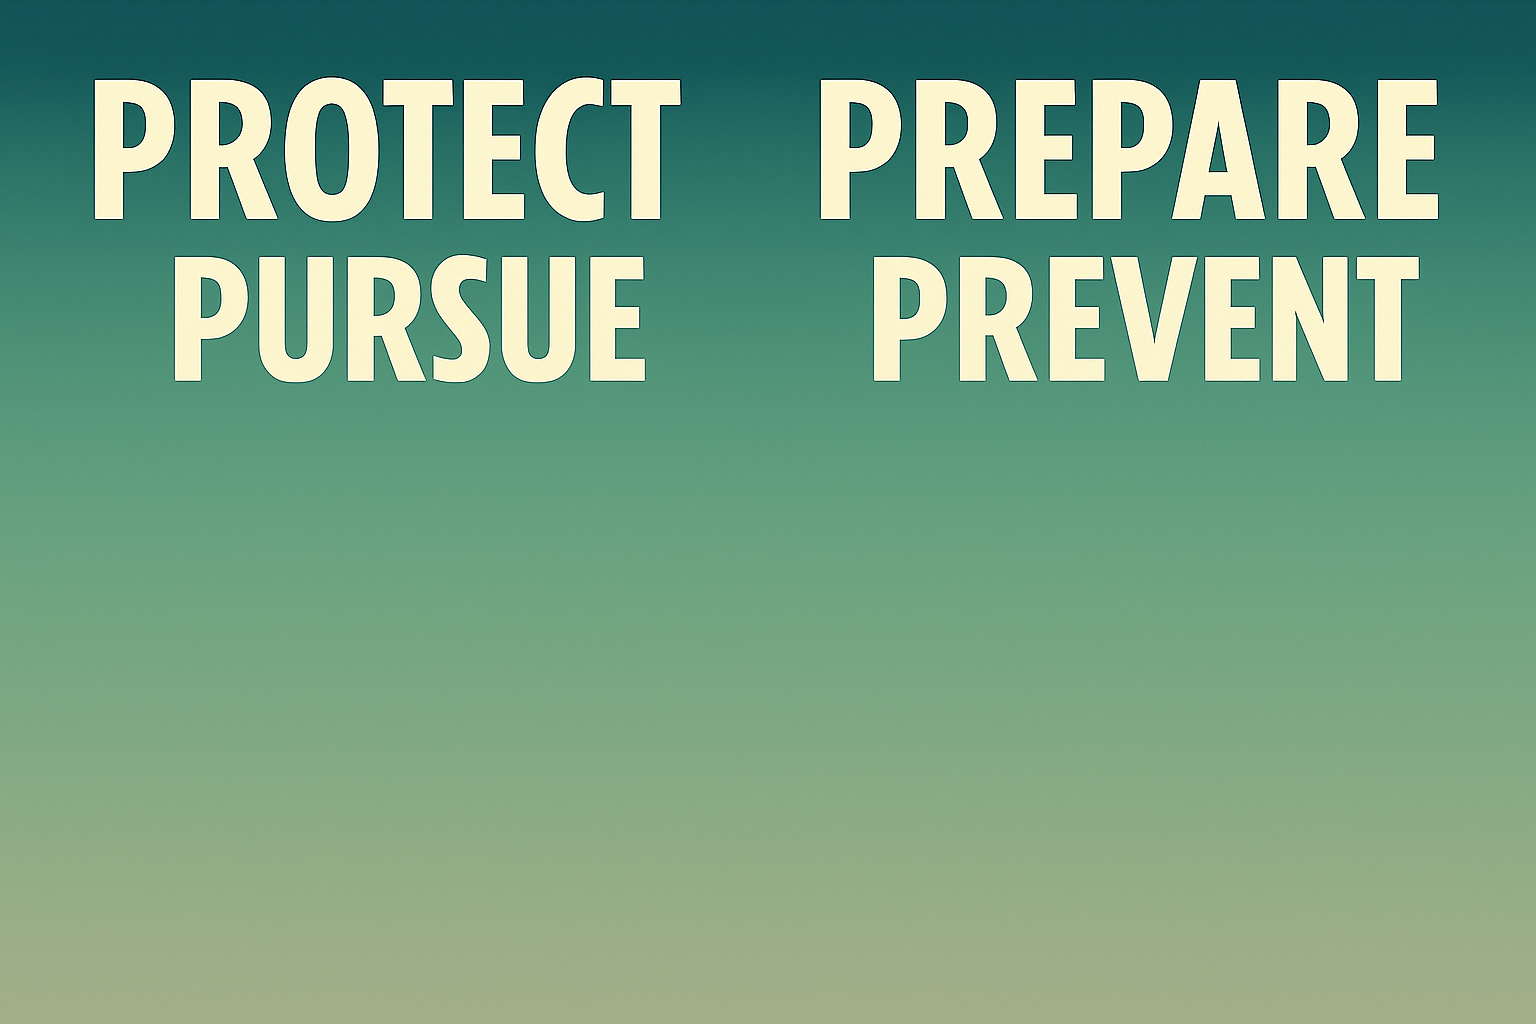
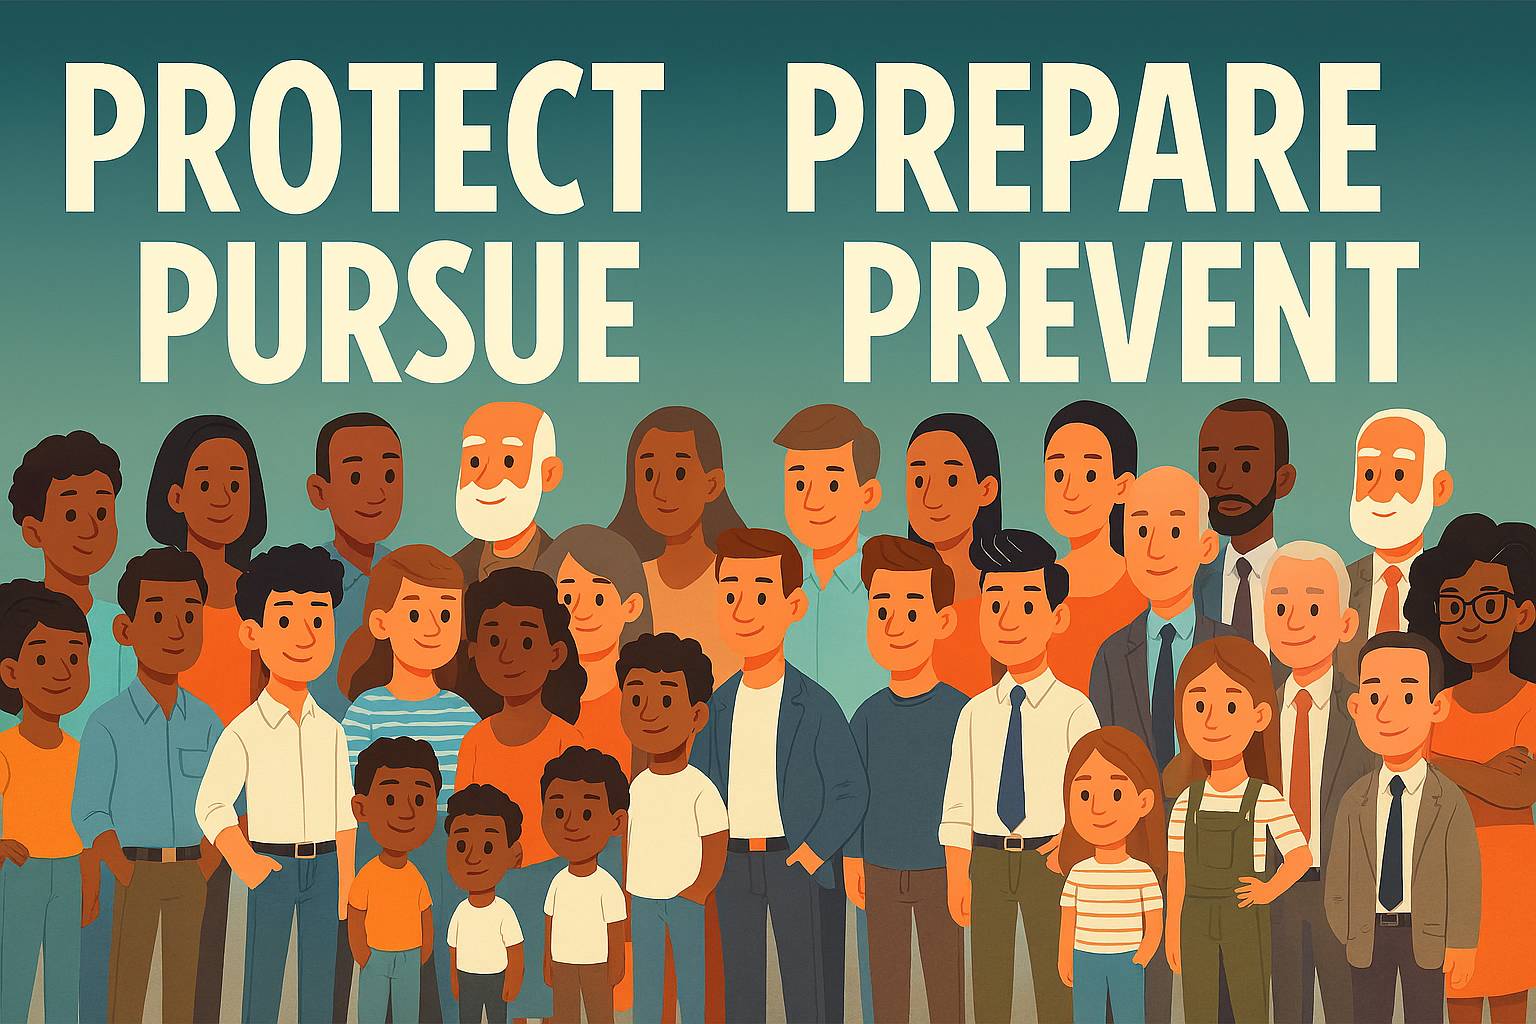
further styling of four p's section

diff --git a/index.html b/index.html
@@ -91,6 +91,12 @@
                     <h2 class="display-2">Prevent Strategy</h2>
                     <h3 class="display-6">The Four P's</h3>
                 </div>
+                <div class="col-lg-6 d-none d-lg-block object-fit-cover">
+                    <img id=fourp-img src="assets/images/four-ps.png"
+                        alt="Four P's of Prevent Strategy 'Protect, Prepare, Pursue, Prevent' on a blue background">
+                </div>
+
+                <!--Accordion-->
                 <div class="accordion col-lg-6 accordion-flush" id="accordionFlushExample">
                     <div class="accordion-item">
                         <h2 class="accordion-header">
@@ -100,8 +106,7 @@
                                 Protect
                             </button>
                         </h2>
-                        <div id="flush-collapseOne" class="accordion-collapse collapse"
-                            data-bs-parent="#accordionFlushExample">
+                        <div id="flush-collapseOne" class="accordion-collapse collapse">
                             <div class="accordion-body">Placeholder content for this accordion, which is intended to
                                 demonstrate the <code>.accordion-flush</code> class. This is the first item’s accordion
                                 body.</div>
@@ -115,8 +120,7 @@
                                 Prepare
                             </button>
                         </h2>
-                        <div id="flush-collapseTwo" class="accordion-collapse collapse"
-                            data-bs-parent="#accordionFlushExample">
+                        <div id="flush-collapseTwo" class="accordion-collapse collapse">
                             <div class="accordion-body">Placeholder content for this accordion, which is intended to
                                 demonstrate the <code>.accordion-flush</code> class. This is the second item’s accordion
                                 body. Let’s imagine this being filled with some actual content.</div>
@@ -130,8 +134,7 @@
                                 Pursue
                             </button>
                         </h2>
-                        <div id="flush-collapseThree" class="accordion-collapse collapse"
-                            data-bs-parent="#accordionFlushExample">
+                        <div id="flush-collapseThree" class="accordion-collapse collapse">
                             <div class="accordion-body">Placeholder content for this accordion, which is intended to
                                 demonstrate the <code>.accordion-flush</code> class. This is the third item’s accordion
                                 body. Nothing more exciting happening here in terms of content, but just filling up the
@@ -142,13 +145,12 @@
                     <div class="accordion-item">
                         <h2 class="accordion-header">
                             <button class="accordion-button collapsed" type="button" data-bs-toggle="collapse"
-                                data-bs-target="#flush-collapseThree" aria-expanded="false"
-                                aria-controls="flush-collapseThree">
+                                data-bs-target="#flush-collapseFour" aria-expanded="false"
+                                aria-controls="flush-collapseFour">
                                 Prevent
                             </button>
                         </h2>
-                        <div id="flush-collapseThree" class="accordion-collapse collapse"
-                            data-bs-parent="#accordionFlushExample">
+                        <div id="flush-collapseFour" class="accordion-collapse collapse">
                             <div class="accordion-body">Placeholder content for this accordion, which is intended to
                                 demonstrate the <code>.accordion-flush</code> class. This is the third item’s accordion
                                 body. Nothing more exciting happening here in terms of content, but just filling up the
@@ -157,15 +159,16 @@
                         </div>
                     </div>
                 </div>
-                <div class="col-lg-6 d-none d-lg-block object-fit-cover">
-                    <img id=fourp-img src="assets/images/four-ps.png"
-                        alt="Four P's of Prevent Strategy 'Protect, Prepare, Pursue, Prevent' on a blue background">
-                </div>
+
             </div>
         </section>
 
         <section id="radicalisation" class="container">
             <div class="row">
+                <div class="col-12 text-center">
+                    <h2 class="display-2">Radicalisation</h2>
+                    
+                </div>
 
             </div>
 

diff --git a/assets/css/styles.css b/assets/css/styles.css
@@ -43,6 +43,6 @@ h3 {
 
 /*Four P's Section Styles*/
 #fourp-img {
-    height: 75%;
+    height: auto;
     width: 100%;
 }
